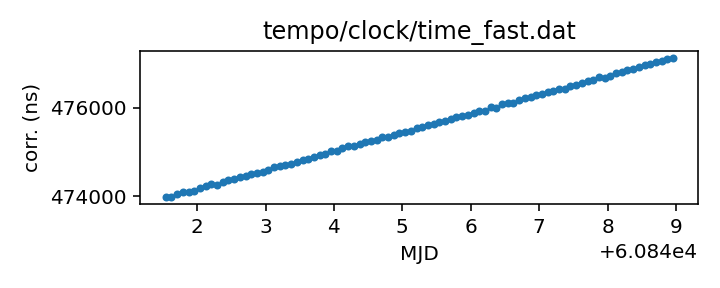
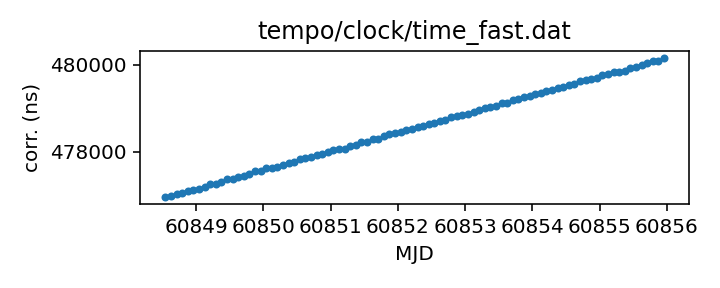
Routine gh-pages update from Github action Mon Jun 30 20:44:11 UTC 2025

diff --git a/status.md b/status.md
@@ -13,18 +13,18 @@ name of each clock file links to a page with more details.
 
 | Name | File | Corrections start | Corrections end | Last check date | Last check result 
 |:--- |:--- | --- | --- | --- |:--- 
-| [GPS to UTC](T2runtime/clock/gps2utc.clk.html) | `T2runtime/clock/gps2utc.clk` | 1993-01-01 MJD 48988.0 | 2025-05-29 MJD 60824.0 | 2025-06-29 | Unchanged 
-| [GPS to UTC (Combined Clock)](T2runtime/clock/gps2utc_cc.clk.html) | `T2runtime/clock/gps2utc_cc.clk` | 1993-01-01 MJD 48988.0 | 2025-05-29 MJD 60824.0 | 2025-06-29 | Unchanged 
-| [GPS to UTC (Corrected)](T2runtime/clock/gps2utc_c0p.clk.html) | `T2runtime/clock/gps2utc_c0p.clk` | 2010-12-29 MJD 55559.0 | 2025-05-29 MJD 60824.0 | 2025-06-29 | Unchanged 
-| [GBT](tempo/clock/time_gbt.dat.html) | `tempo/clock/time_gbt.dat` | 2000-12-31 MJD 51909.5 | 2025-06-14 MJD 60840.5 | 2025-06-29 | Updated 
-| [GBT (TEMPO2 converted from TEMPO)](T2runtime/clock/gbt2gps.clk.html) | `T2runtime/clock/gbt2gps.clk` | 2000-12-31 MJD 51909.5 | 2024-05-18 MJD 60448.5 | 2025-06-29 | **Validation failed** 
-| [Jodrell Bank](T2runtime/clock/jb2gps.clk.html) | `T2runtime/clock/jb2gps.clk` | 2006-10-13 MJD 54021.4 | 2024-11-07 MJD 60621.0 | 2025-06-23 | Unchanged 
-| [Jodrell Bank Roach](T2runtime/clock/jbroach2jb.clk.html) | `T2runtime/clock/jbroach2jb.clk` | 2006-10-13 MJD 54021.4 | 2018-03-20 MJD 58197.6 | 2025-06-23 | Unchanged 
-| [Jodrell Bank DFB](T2runtime/clock/jbdfb2jb.clk.html) | `T2runtime/clock/jbdfb2jb.clk` | 2006-10-13 MJD 54021.4 | 2021-02-22 MJD 59268.0 | 2025-06-23 | Unchanged 
-| [Meerkat (observatory)](T2runtime/clock/mk2utc_observatory.clk.html) | `T2runtime/clock/mk2utc_observatory.clk` | 2019-01-01 MJD 58484.0 | 2025-06-17 MJD 60844.0 | 2025-06-23 | Updated 
-| [Leap seconds](tempo/clock/leap.sec.html) | `tempo/clock/leap.sec` | 1972-07-01 MJD 41499.0 | 2017-01-01 MJD 57754.0 | 2025-06-29 | Unchanged 
-| [UT1 table](tempo/clock/ut1.dat.html) | `tempo/clock/ut1.dat` | 1973-01-02 MJD 41684.0 | 2026-07-04 MJD 61225.0 | 2025-06-29 | Unchanged 
-| [UT1 table](T2runtime/clock/ut1.dat.html) | `T2runtime/clock/ut1.dat` | 1973-01-02 MJD 41684.0 | 2026-07-04 MJD 61225.0 | 2025-06-29 | Unchanged 
+| [GPS to UTC](T2runtime/clock/gps2utc.clk.html) | `T2runtime/clock/gps2utc.clk` | 1993-01-01 MJD 48988.0 | 2025-05-29 MJD 60824.0 | 2025-06-30 | Unchanged 
+| [GPS to UTC (Combined Clock)](T2runtime/clock/gps2utc_cc.clk.html) | `T2runtime/clock/gps2utc_cc.clk` | 1993-01-01 MJD 48988.0 | 2025-05-29 MJD 60824.0 | 2025-06-30 | Unchanged 
+| [GPS to UTC (Corrected)](T2runtime/clock/gps2utc_c0p.clk.html) | `T2runtime/clock/gps2utc_c0p.clk` | 2010-12-29 MJD 55559.0 | 2025-05-29 MJD 60824.0 | 2025-06-30 | Unchanged 
+| [GBT](tempo/clock/time_gbt.dat.html) | `tempo/clock/time_gbt.dat` | 2000-12-31 MJD 51909.5 | 2025-06-14 MJD 60840.5 | 2025-06-30 | Updated 
+| [GBT (TEMPO2 converted from TEMPO)](T2runtime/clock/gbt2gps.clk.html) | `T2runtime/clock/gbt2gps.clk` | 2000-12-31 MJD 51909.5 | 2024-05-18 MJD 60448.5 | 2025-06-30 | **Validation failed** 
+| [Jodrell Bank](T2runtime/clock/jb2gps.clk.html) | `T2runtime/clock/jb2gps.clk` | 2006-10-13 MJD 54021.4 | 2024-11-07 MJD 60621.0 | 2025-06-30 | Unchanged 
+| [Jodrell Bank Roach](T2runtime/clock/jbroach2jb.clk.html) | `T2runtime/clock/jbroach2jb.clk` | 2006-10-13 MJD 54021.4 | 2018-03-20 MJD 58197.6 | 2025-06-30 | Unchanged 
+| [Jodrell Bank DFB](T2runtime/clock/jbdfb2jb.clk.html) | `T2runtime/clock/jbdfb2jb.clk` | 2006-10-13 MJD 54021.4 | 2021-02-22 MJD 59268.0 | 2025-06-30 | Unchanged 
+| [Meerkat (observatory)](T2runtime/clock/mk2utc_observatory.clk.html) | `T2runtime/clock/mk2utc_observatory.clk` | 2019-01-01 MJD 58484.0 | 2025-06-17 MJD 60844.0 | 2025-06-30 | Unchanged 
+| [Leap seconds](tempo/clock/leap.sec.html) | `tempo/clock/leap.sec` | 1972-07-01 MJD 41499.0 | 2017-01-01 MJD 57754.0 | 2025-06-30 | Unchanged 
+| [UT1 table](tempo/clock/ut1.dat.html) | `tempo/clock/ut1.dat` | 1973-01-02 MJD 41684.0 | 2026-07-04 MJD 61225.0 | 2025-06-30 | Unchanged 
+| [UT1 table](T2runtime/clock/ut1.dat.html) | `T2runtime/clock/ut1.dat` | 1973-01-02 MJD 41684.0 | 2026-07-04 MJD 61225.0 | 2025-06-30 | Unchanged 
 
 
 
@@ -68,26 +68,26 @@ name of each clock file links to a page with more details.
 
 | Name | File | Corrections start | Corrections end | Last check date | Last check result 
 |:--- |:--- | --- | --- | --- |:--- 
-| [GPS to UTC (TEMPO2)](T2runtime/clock/gpst2utc_tempo2.clk.html) | `T2runtime/clock/gpst2utc_tempo2.clk` | 1993-01-01 MJD 48988.0 | 2024-12-30 MJD 60674.0 | 2025-06-23 | Unchanged 
-| [GBT (TEMPO2)](T2runtime/clock/gbt2gps_tempo2.clk.html) | `T2runtime/clock/gbt2gps_tempo2.clk` | 2000-12-31 MJD 51909.5 | 2020-02-25 MJD 58904.5 | 2025-06-23 | Unchanged 
-| [Jodrell Bank (TEMPO)](tempo/clock/time_jb.dat.html) | `tempo/clock/time_jb.dat` | 2006-10-13 MJD 54021.4 | 2019-05-13 MJD 58616.2 | 2025-06-23 | Unchanged 
-| [VLA](tempo/clock/time_vla.dat.html) | `tempo/clock/time_vla.dat` | 1990-10-27 MJD 48191.2 | 2025-02-10 MJD 60716.2 | 2025-06-23 | Unchanged 
-| [VLA (TEMPO2)](T2runtime/clock/vla2gps.clk.html) | `T2runtime/clock/vla2gps.clk` | 2015-02-01 MJD 57054.6 | 2025-02-10 MJD 60716.2 | 2025-06-23 | Unchanged 
-| [VLA to NIST](T2runtime/clock/vla2nist.clk.html) | `T2runtime/clock/vla2nist.clk` | 1990-10-27 MJD 48191.2 | 1993-11-13 MJD 49304.0 | 2025-06-23 | Unchanged 
-| [FAST](tempo/clock/time_fast.dat.html) | `tempo/clock/time_fast.dat` | 2017-07-27 MJD 57961.0 | 2025-06-22 MJD 60849.0 | 2025-06-23 | Updated 
-| [WSRT](T2runtime/clock/wsrt2gps.clk.html) | `T2runtime/clock/wsrt2gps.clk` | 1999-01-01 MJD 51179.5 | 2015-06-29 MJD 57202.1 | 2025-06-23 | Unchanged 
-| [WSRT (TEMPO)](tempo/clock/time_wsrt.dat.html) | `tempo/clock/time_wsrt.dat` | 1987-07-24 MJD 47000.0 | 2007-12-24 MJD 54458.0 | 2025-06-23 | **Validation failed** 
-| [Parkes](T2runtime/clock/pks2gps.clk.html) | `T2runtime/clock/pks2gps.clk` | 1858-11-17 MJD 0.0 | 2025-05-31 MJD 60826.1 | 2025-06-23 | Updated 
-| [Parkes (TEMPO)](tempo/clock/time_pks.dat.html) | `tempo/clock/time_pks.dat` | 1979-05-07 MJD 44000.0 | 2011-07-03 MJD 55745.8 | 2025-06-23 | Unchanged 
-| [SRT](T2runtime/clock/srt2gps.clk.html) | `T2runtime/clock/srt2gps.clk` | 2013-03-20 MJD 56371.0 | 2019-12-11 MJD 58828.0 | 2025-06-23 | Unchanged 
-| [Effelsberg](T2runtime/clock/eff2gps.clk.html) | `T2runtime/clock/eff2gps.clk` | 1993-11-29 MJD 49320.0 | 2015-06-22 MJD 57195.5 | 2025-06-23 | Unchanged 
-| [Effelsberg Asterix/PSRix](T2runtime/clock/effix2gps.clk.html) | `T2runtime/clock/effix2gps.clk` | 2011-01-01 MJD 55562.5 | 2021-03-21 MJD 59294.5 | 2025-06-23 | Unchanged 
-| [LEAP](T2runtime/clock/leap2effix.clk.html) | `T2runtime/clock/leap2effix.clk` | 2012-10-29 MJD 56230.0 | 2014-03-04 MJD 56720.0 | 2025-06-23 | Unchanged 
-| [NUPPI](tempo/clock/time_nuppi.dat.html) | `tempo/clock/time_nuppi.dat` | 2005-03-07 MJD 53436.0 | 2015-11-08 MJD 57334.6 | 2025-06-23 | Unchanged 
-| [Meerkat (TEMPO2)](T2runtime/clock/mk2utc.clk.html) | `T2runtime/clock/mk2utc.clk` | 2019-01-01 MJD 58484.0 | 2024-09-23 MJD 60576.9 | 2025-06-23 | **Validation failed** 
-| [MOST](T2runtime/clock/mo2gps.clk.html) | `T2runtime/clock/mo2gps.clk` | 2003-12-27 MJD 53000.0 | 2018-09-06 MJD 58367.0 | 2025-06-23 | Unchanged 
-| [Nancay to obspm](T2runtime/clock/ncyobs2obspm.clk.html) | `T2runtime/clock/ncyobs2obspm.clk` | 1988-05-18 MJD 47299.6 | 2024-12-30 MJD 60674.0 | 2025-06-23 | Unchanged 
-| [obspm](T2runtime/clock/obspm2gps.clk.html) | `T2runtime/clock/obspm2gps.clk` | 2003-12-01 MJD 52974.0 | 2023-10-27 MJD 60244.0 | 2025-06-23 | Unchanged 
+| [GPS to UTC (TEMPO2)](T2runtime/clock/gpst2utc_tempo2.clk.html) | `T2runtime/clock/gpst2utc_tempo2.clk` | 1993-01-01 MJD 48988.0 | 2024-12-30 MJD 60674.0 | 2025-06-30 | Unchanged 
+| [GBT (TEMPO2)](T2runtime/clock/gbt2gps_tempo2.clk.html) | `T2runtime/clock/gbt2gps_tempo2.clk` | 2000-12-31 MJD 51909.5 | 2020-02-25 MJD 58904.5 | 2025-06-30 | Unchanged 
+| [Jodrell Bank (TEMPO)](tempo/clock/time_jb.dat.html) | `tempo/clock/time_jb.dat` | 2006-10-13 MJD 54021.4 | 2019-05-13 MJD 58616.2 | 2025-06-30 | Unchanged 
+| [VLA](tempo/clock/time_vla.dat.html) | `tempo/clock/time_vla.dat` | 1990-10-27 MJD 48191.2 | 2025-02-10 MJD 60716.2 | 2025-06-30 | Unchanged 
+| [VLA (TEMPO2)](T2runtime/clock/vla2gps.clk.html) | `T2runtime/clock/vla2gps.clk` | 2015-02-01 MJD 57054.6 | 2025-02-10 MJD 60716.2 | 2025-06-30 | Unchanged 
+| [VLA to NIST](T2runtime/clock/vla2nist.clk.html) | `T2runtime/clock/vla2nist.clk` | 1990-10-27 MJD 48191.2 | 1993-11-13 MJD 49304.0 | 2025-06-30 | Unchanged 
+| [FAST](tempo/clock/time_fast.dat.html) | `tempo/clock/time_fast.dat` | 2017-07-27 MJD 57961.0 | 2025-06-29 MJD 60856.0 | 2025-06-30 | Updated 
+| [WSRT](T2runtime/clock/wsrt2gps.clk.html) | `T2runtime/clock/wsrt2gps.clk` | 1999-01-01 MJD 51179.5 | 2015-06-29 MJD 57202.1 | 2025-06-30 | Unchanged 
+| [WSRT (TEMPO)](tempo/clock/time_wsrt.dat.html) | `tempo/clock/time_wsrt.dat` | 1987-07-24 MJD 47000.0 | 2007-12-24 MJD 54458.0 | 2025-06-30 | **Validation failed** 
+| [Parkes](T2runtime/clock/pks2gps.clk.html) | `T2runtime/clock/pks2gps.clk` | 1858-11-17 MJD 0.0 | 2025-05-31 MJD 60826.1 | 2025-06-30 | Unchanged 
+| [Parkes (TEMPO)](tempo/clock/time_pks.dat.html) | `tempo/clock/time_pks.dat` | 1979-05-07 MJD 44000.0 | 2011-07-03 MJD 55745.8 | 2025-06-30 | Unchanged 
+| [SRT](T2runtime/clock/srt2gps.clk.html) | `T2runtime/clock/srt2gps.clk` | 2013-03-20 MJD 56371.0 | 2019-12-11 MJD 58828.0 | 2025-06-30 | Unchanged 
+| [Effelsberg](T2runtime/clock/eff2gps.clk.html) | `T2runtime/clock/eff2gps.clk` | 1993-11-29 MJD 49320.0 | 2015-06-22 MJD 57195.5 | 2025-06-30 | Unchanged 
+| [Effelsberg Asterix/PSRix](T2runtime/clock/effix2gps.clk.html) | `T2runtime/clock/effix2gps.clk` | 2011-01-01 MJD 55562.5 | 2021-03-21 MJD 59294.5 | 2025-06-30 | Unchanged 
+| [LEAP](T2runtime/clock/leap2effix.clk.html) | `T2runtime/clock/leap2effix.clk` | 2012-10-29 MJD 56230.0 | 2014-03-04 MJD 56720.0 | 2025-06-30 | Unchanged 
+| [NUPPI](tempo/clock/time_nuppi.dat.html) | `tempo/clock/time_nuppi.dat` | 2005-03-07 MJD 53436.0 | 2015-11-08 MJD 57334.6 | 2025-06-30 | Unchanged 
+| [Meerkat (TEMPO2)](T2runtime/clock/mk2utc.clk.html) | `T2runtime/clock/mk2utc.clk` | 2019-01-01 MJD 58484.0 | 2024-09-23 MJD 60576.9 | 2025-06-30 | **Validation failed** 
+| [MOST](T2runtime/clock/mo2gps.clk.html) | `T2runtime/clock/mo2gps.clk` | 2003-12-27 MJD 53000.0 | 2018-09-06 MJD 58367.0 | 2025-06-30 | Unchanged 
+| [Nancay to obspm](T2runtime/clock/ncyobs2obspm.clk.html) | `T2runtime/clock/ncyobs2obspm.clk` | 1988-05-18 MJD 47299.6 | 2024-12-30 MJD 60674.0 | 2025-06-30 | Unchanged 
+| [obspm](T2runtime/clock/obspm2gps.clk.html) | `T2runtime/clock/obspm2gps.clk` | 2003-12-01 MJD 52974.0 | 2023-10-27 MJD 60244.0 | 2025-06-30 | Unchanged 
 
 
 ### Further information:

diff --git a/tempo/clock/time_wsrt.dat.md b/tempo/clock/time_wsrt.dat.md
@@ -20,12 +20,11 @@ should be the same information.
 | Clock file start | 1987-07-24 MJD 47000.0 |
 | Clock file end | 2007-12-24 MJD 54458.0 |
 | Update interval (days) | 7 |
-| Last update attempt | 2025-06-23 |
+| Last update attempt | 2025-06-30 |
 | Last update result | Validation failed |
 
 Log entries from the last few update attempts:
 ```
-2025-02-05 20:37:03.640 - Validation failed: Unable to read new version of tempo/clock/time_wsrt.dat: Clock file /tmp/astropy-download-2343-_ztgf100 appears to be out of order: 53000.05 > 53000.0
 2025-02-12 20:36:28.632 - Validation failed: Unable to read new version of tempo/clock/time_wsrt.dat: Clock file /tmp/astropy-download-2294-2byamhiv appears to be out of order: 53000.05 > 53000.0
 2025-05-05 14:30:55.874 - Validation failed: Unable to read new version of tempo/clock/time_wsrt.dat: Clock file /var/folders/mb/xng3q7pn3hgbsmmrvqbhzth40007g7/T/astropy-download-369-fgw2pzvi appears to be out of order: 53000.05 > 53000.0
 2025-05-12 20:38:46.867 - Validation failed: New version of tempo/clock/time_wsrt.dat MJDs differ from old version where they overlap in 5 places
@@ -35,6 +34,7 @@ Log entries from the last few update attempts:
 2025-06-09 20:43:57.091 - Validation failed: New version of tempo/clock/time_wsrt.dat MJDs differ from old version where they overlap in 5 places
 2025-06-16 20:43:49.587 - Validation failed: New version of tempo/clock/time_wsrt.dat MJDs differ from old version where they overlap in 5 places
 2025-06-23 20:43:50.541 - Validation failed: New version of tempo/clock/time_wsrt.dat MJDs differ from old version where they overlap in 5 places
+2025-06-30 20:43:31.128 - Validation failed: New version of tempo/clock/time_wsrt.dat MJDs differ from old version where they overlap in 5 places
 ```
 [Full log](https://raw.githubusercontent.com/ipta/pulsar-clock-corrections/main/log/tempo/clock/time_wsrt.dat.log)
 

diff --git a/T2runtime/clock/gbt2gps.clk.md b/T2runtime/clock/gbt2gps.clk.md
@@ -25,12 +25,11 @@ If questions arise about the conversion, contact Anne Archibald
 | Clock file start | 2000-12-31 MJD 51909.5 |
 | Clock file end | 2024-05-18 MJD 60448.5 |
 | Update interval (days) | 1 |
-| Last update attempt | 2025-06-29 |
+| Last update attempt | 2025-06-30 |
 | Last update result | Validation failed |
 
 Log entries from the last few update attempts:
 ```
-2025-06-20 20:42:43.739 - Validation failed: New version of T2runtime/clock/gbt2gps.clk MJDs differ from old version where they overlap in 8407 places
 2025-06-21 20:40:42.249 - Validation failed: New version of T2runtime/clock/gbt2gps.clk MJDs differ from old version where they overlap in 8407 places
 2025-06-22 20:41:34.933 - Validation failed: New version of T2runtime/clock/gbt2gps.clk MJDs differ from old version where they overlap in 8407 places
 2025-06-23 20:43:47.572 - Validation failed: New version of T2runtime/clock/gbt2gps.clk MJDs differ from old version where they overlap in 8407 places
@@ -40,6 +39,7 @@ Log entries from the last few update attempts:
 2025-06-27 20:42:06.725 - Validation failed: New version of T2runtime/clock/gbt2gps.clk MJDs differ from old version where they overlap in 8407 places
 2025-06-28 20:41:24.898 - Validation failed: New version of T2runtime/clock/gbt2gps.clk MJDs differ from old version where they overlap in 8407 places
 2025-06-29 20:42:01.046 - Validation failed: New version of T2runtime/clock/gbt2gps.clk MJDs differ from old version where they overlap in 8407 places
+2025-06-30 20:43:26.038 - Validation failed: New version of T2runtime/clock/gbt2gps.clk MJDs differ from old version where they overlap in 8407 places
 ```
 [Full log](https://raw.githubusercontent.com/ipta/pulsar-clock-corrections/main/log/T2runtime/clock/gbt2gps.clk.log)
 

diff --git a/T2runtime/clock/mk2utc.clk.md b/T2runtime/clock/mk2utc.clk.md
@@ -17,12 +17,11 @@ up-to-date.
 | Clock file start | 2019-01-01 MJD 58484.0 |
 | Clock file end | 2024-09-23 MJD 60576.9 |
 | Update interval (days) | 7 |
-| Last update attempt | 2025-06-23 |
+| Last update attempt | 2025-06-30 |
 | Last update result | Validation failed |
 
 Log entries from the last few update attempts:
 ```
-2025-02-05 20:37:16.268 - Unchanged
 2025-02-12 20:36:47.399 - Unchanged
 2025-05-05 14:31:08.686 - Validation failed: New version of T2runtime/clock/mk2utc.clk MJDs differ from old version where they overlap in 8252 places
 2025-05-12 20:38:57.406 - Validation failed: New version of T2runtime/clock/mk2utc.clk MJDs differ from old version where they overlap in 8252 places
@@ -32,6 +31,7 @@ Log entries from the last few update attempts:
 2025-06-09 20:44:07.749 - Validation failed: New version of T2runtime/clock/mk2utc.clk MJDs differ from old version where they overlap in 8252 places
 2025-06-16 20:44:25.349 - Validation failed: New version of T2runtime/clock/mk2utc.clk MJDs differ from old version where they overlap in 8252 places
 2025-06-23 20:44:09.946 - Validation failed: New version of T2runtime/clock/mk2utc.clk MJDs differ from old version where they overlap in 8252 places
+2025-06-30 20:43:41.583 - Validation failed: New version of T2runtime/clock/mk2utc.clk MJDs differ from old version where they overlap in 8252 places
 ```
 [Full log](https://raw.githubusercontent.com/ipta/pulsar-clock-corrections/main/log/T2runtime/clock/mk2utc.clk.log)
 

diff --git a/tempo/clock/time_pks.dat.md b/tempo/clock/time_pks.dat.md
@@ -20,12 +20,11 @@ telescopes in the same file, distinguished only by observatory code.
 | Clock file start | 1979-05-07 MJD 44000.0 |
 | Clock file end | 2011-07-03 MJD 55745.8 |
 | Update interval (days) | 7 |
-| Last update attempt | 2025-06-23 |
+| Last update attempt | 2025-06-30 |
 | Last update result | Unchanged |
 
 Log entries from the last few update attempts:
 ```
-2025-02-05 20:37:08.242 - Validation failed: Unable to read new version of tempo/clock/time_pks.dat: Clock file /tmp/astropy-download-2343-ovr9scze appears to be out of order: 49959.0 > 49958.0
 2025-02-12 20:36:34.000 - Validation failed: Unable to read new version of tempo/clock/time_pks.dat: Clock file /tmp/astropy-download-2294-sgs73xt5 appears to be out of order: 49959.0 > 49958.0
 2025-05-05 14:30:59.843 - Validation failed: Unable to read new version of tempo/clock/time_pks.dat: Clock file /var/folders/mb/xng3q7pn3hgbsmmrvqbhzth40007g7/T/astropy-download-369-kffeyfr8 appears to be out of order: 49959.0 > 49958.0
 2025-05-12 20:38:51.896 - Updated
@@ -35,6 +34,7 @@ Log entries from the last few update attempts:
 2025-06-09 20:44:01.920 - Unchanged
 2025-06-16 20:43:53.586 - Unchanged
 2025-06-23 20:43:55.195 - Unchanged
+2025-06-30 20:43:34.826 - Unchanged
 ```
 [Full log](https://raw.githubusercontent.com/ipta/pulsar-clock-corrections/main/log/tempo/clock/time_pks.dat.log)
 

diff --git a/tempo/clock/time_gbt.dat.md b/tempo/clock/time_gbt.dat.md
@@ -38,12 +38,11 @@ If questions arise, contact Ryan S. Lynch <rlynch@nrao.edu>.
 | Clock file start | 2000-12-31 MJD 51909.5 |
 | Clock file end | 2025-06-14 MJD 60840.5 |
 | Update interval (days) | 1 |
-| Last update attempt | 2025-06-29 |
+| Last update attempt | 2025-06-30 |
 | Last update result | Updated |
 
 Log entries from the last few update attempts:
 ```
-2025-06-20 20:42:43.679 - Unchanged
 2025-06-21 20:40:42.190 - Unchanged
 2025-06-22 20:41:34.877 - Updated
 2025-06-23 20:43:47.308 - Updated
@@ -53,12 +52,13 @@ Log entries from the last few update attempts:
 2025-06-27 20:42:06.667 - Unchanged
 2025-06-28 20:41:24.839 - Unchanged
 2025-06-29 20:42:00.989 - Updated
+2025-06-30 20:43:25.480 - Updated
 ```
 [Full log](https://raw.githubusercontent.com/ipta/pulsar-clock-corrections/main/log/tempo/clock/time_gbt.dat.log)
 
 Leading comments from clock file:
 
-     -2271.50       0.0        -0.486 1    32766-dec
+     -2271.50       0.0        -0.486 1    32767-dec
 
 
 

diff --git a/tempo/clock/time_fast.dat.md b/tempo/clock/time_fast.dat.md
@@ -14,14 +14,13 @@ This file is pulled from the FAST_ClockFile repository.
 | Format | tempo |
 | Bogus last correction | False |
 | Clock file start | 2017-07-27 MJD 57961.0 |
-| Clock file end | 2025-06-22 MJD 60849.0 |
+| Clock file end | 2025-06-29 MJD 60856.0 |
 | Update interval (days) | 7 |
-| Last update attempt | 2025-06-23 |
+| Last update attempt | 2025-06-30 |
 | Last update result | Updated |
 
 Log entries from the last few update attempts:
 ```
-2025-02-05 20:37:03.213 - Updated
 2025-02-12 20:36:28.294 - Updated
 2025-05-05 14:30:55.463 - Updated
 2025-05-12 20:38:46.424 - Updated
@@ -31,6 +30,7 @@ Log entries from the last few update attempts:
 2025-06-09 20:43:56.626 - Updated
 2025-06-16 20:43:48.812 - Unchanged
 2025-06-23 20:43:50.152 - Updated
+2025-06-30 20:43:30.435 - Updated
 ```
 [Full log](https://raw.githubusercontent.com/ipta/pulsar-clock-corrections/main/log/tempo/clock/time_fast.dat.log)
 

diff --git a/T2runtime/clock/mk2utc_observatory.clk.md b/T2runtime/clock/mk2utc_observatory.clk.md
@@ -21,12 +21,11 @@ If questions arise, contact Ryan Shannon <rshannon@swin.edu.au>
 | Clock file start | 2019-01-01 MJD 58484.0 |
 | Clock file end | 2025-06-17 MJD 60844.0 |
 | Update interval (days) | 7 |
-| Last update attempt | 2025-06-23 |
-| Last update result | Updated |
+| Last update attempt | 2025-06-30 |
+| Last update result | Unchanged |
 
 Log entries from the last few update attempts:
 ```
-2025-02-05 20:37:15.621 - Updated
 2025-02-12 20:36:46.761 - Unchanged
 2025-05-05 14:31:07.654 - Updated
 2025-05-12 20:38:56.123 - Updated
@@ -36,6 +35,7 @@ Log entries from the last few update attempts:
 2025-06-09 20:44:06.297 - Unchanged
 2025-06-16 20:44:23.561 - Unchanged
 2025-06-23 20:44:08.669 - Updated
+2025-06-30 20:43:39.919 - Unchanged
 ```
 [Full log](https://raw.githubusercontent.com/ipta/pulsar-clock-corrections/main/log/T2runtime/clock/mk2utc_observatory.clk.log)
 

diff --git a/T2runtime/clock/gps2utc_c0p.clk.md b/T2runtime/clock/gps2utc_c0p.clk.md
@@ -30,12 +30,11 @@ about the BIPM's published corrections, contact <tai@bipm.org>.
 | Clock file start | 2010-12-29 MJD 55559.0 |
 | Clock file end | 2025-05-29 MJD 60824.0 |
 | Update interval (days) | 1 |
-| Last update attempt | 2025-06-29 |
+| Last update attempt | 2025-06-30 |
 | Last update result | Unchanged |
 
 Log entries from the last few update attempts:
 ```
-2025-06-20 20:42:43.192 - Unchanged
 2025-06-21 20:40:41.418 - Unchanged
 2025-06-22 20:41:33.931 - Unchanged
 2025-06-23 20:43:47.006 - Unchanged
@@ -45,6 +44,7 @@ Log entries from the last few update attempts:
 2025-06-27 20:42:05.771 - Unchanged
 2025-06-28 20:41:24.276 - Unchanged
 2025-06-29 20:42:00.504 - Unchanged
+2025-06-30 20:43:24.266 - Unchanged
 ```
 [Full log](https://raw.githubusercontent.com/ipta/pulsar-clock-corrections/main/log/T2runtime/clock/gps2utc_c0p.clk.log)
 

diff --git a/T2runtime/clock/gps2utc_cc.clk.md b/T2runtime/clock/gps2utc_cc.clk.md
@@ -29,12 +29,11 @@ about the BIPM's published corrections, contact <tai@bipm.org>.
 | Clock file start | 1993-01-01 MJD 48988.0 |
 | Clock file end | 2025-05-29 MJD 60824.0 |
 | Update interval (days) | 1 |
-| Last update attempt | 2025-06-29 |
+| Last update attempt | 2025-06-30 |
 | Last update result | Unchanged |
 
 Log entries from the last few update attempts:
 ```
-2025-06-20 20:42:43.184 - Unchanged
 2025-06-21 20:40:41.410 - Unchanged
 2025-06-22 20:41:33.923 - Unchanged
 2025-06-23 20:43:46.999 - Unchanged
@@ -44,6 +43,7 @@ Log entries from the last few update attempts:
 2025-06-27 20:42:05.764 - Unchanged
 2025-06-28 20:41:24.268 - Unchanged
 2025-06-29 20:42:00.496 - Unchanged
+2025-06-30 20:43:24.259 - Unchanged
 ```
 [Full log](https://raw.githubusercontent.com/ipta/pulsar-clock-corrections/main/log/T2runtime/clock/gps2utc_cc.clk.log)
 

diff --git a/T2runtime/clock/gps2utc.clk.md b/T2runtime/clock/gps2utc.clk.md
@@ -32,12 +32,11 @@ about the BIPM's published corrections, contact <tai@bipm.org>.
 | Clock file start | 1993-01-01 MJD 48988.0 |
 | Clock file end | 2025-05-29 MJD 60824.0 |
 | Update interval (days) | 1 |
-| Last update attempt | 2025-06-29 |
+| Last update attempt | 2025-06-30 |
 | Last update result | Unchanged |
 
 Log entries from the last few update attempts:
 ```
-2025-06-20 20:42:43.161 - Unchanged
 2025-06-21 20:40:41.389 - Unchanged
 2025-06-22 20:41:33.901 - Unchanged
 2025-06-23 20:43:46.976 - Unchanged
@@ -47,6 +46,7 @@ Log entries from the last few update attempts:
 2025-06-27 20:42:05.741 - Unchanged
 2025-06-28 20:41:24.246 - Unchanged
 2025-06-29 20:42:00.473 - Unchanged
+2025-06-30 20:43:24.237 - Unchanged
 ```
 [Full log](https://raw.githubusercontent.com/ipta/pulsar-clock-corrections/main/log/T2runtime/clock/gps2utc.clk.log)
 

diff --git a/T2runtime/clock/leap2effix.clk.md b/T2runtime/clock/leap2effix.clk.md
@@ -23,12 +23,11 @@ thus here) can be expected to be somewhat up to date.
 | Clock file start | 2012-10-29 MJD 56230.0 |
 | Clock file end | 2014-03-04 MJD 56720.0 |
 | Update interval (days) | 7 |
-| Last update attempt | 2025-06-23 |
+| Last update attempt | 2025-06-30 |
 | Last update result | Unchanged |
 
 Log entries from the last few update attempts:
 ```
-2025-02-05 20:37:08.962 - Unchanged
 2025-02-12 20:36:34.645 - Unchanged
 2025-05-05 14:31:00.570 - Unchanged
 2025-05-12 20:38:52.456 - Unchanged
@@ -38,6 +37,7 @@ Log entries from the last few update attempts:
 2025-06-09 20:44:02.952 - Unchanged
 2025-06-16 20:43:55.146 - Unchanged
 2025-06-23 20:43:55.751 - Unchanged
+2025-06-30 20:43:36.318 - Unchanged
 ```
 [Full log](https://raw.githubusercontent.com/ipta/pulsar-clock-corrections/main/log/T2runtime/clock/leap2effix.clk.log)
 
